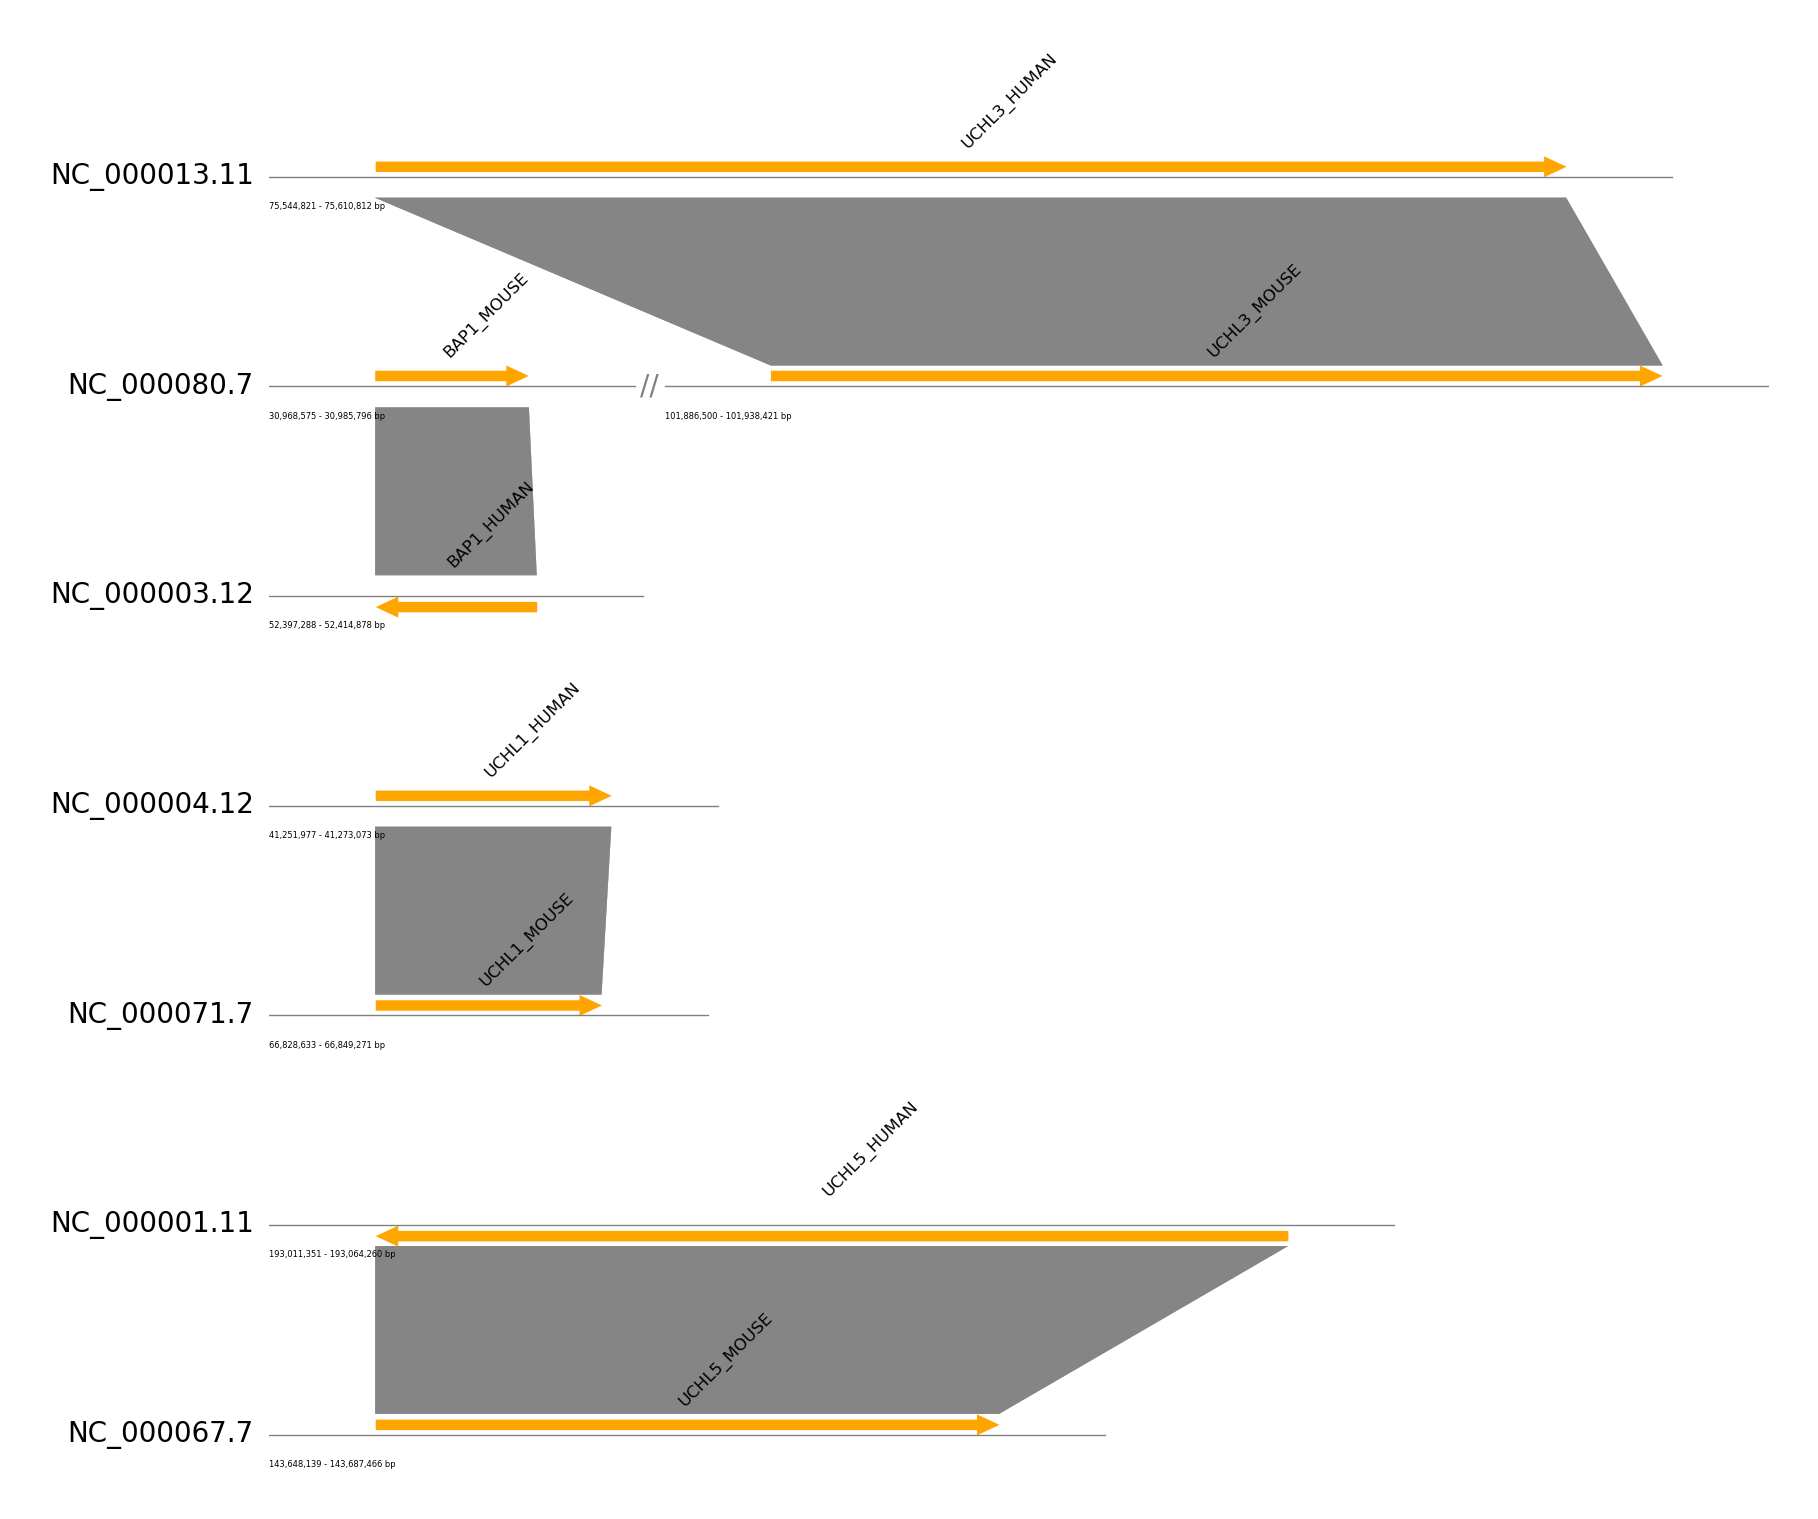
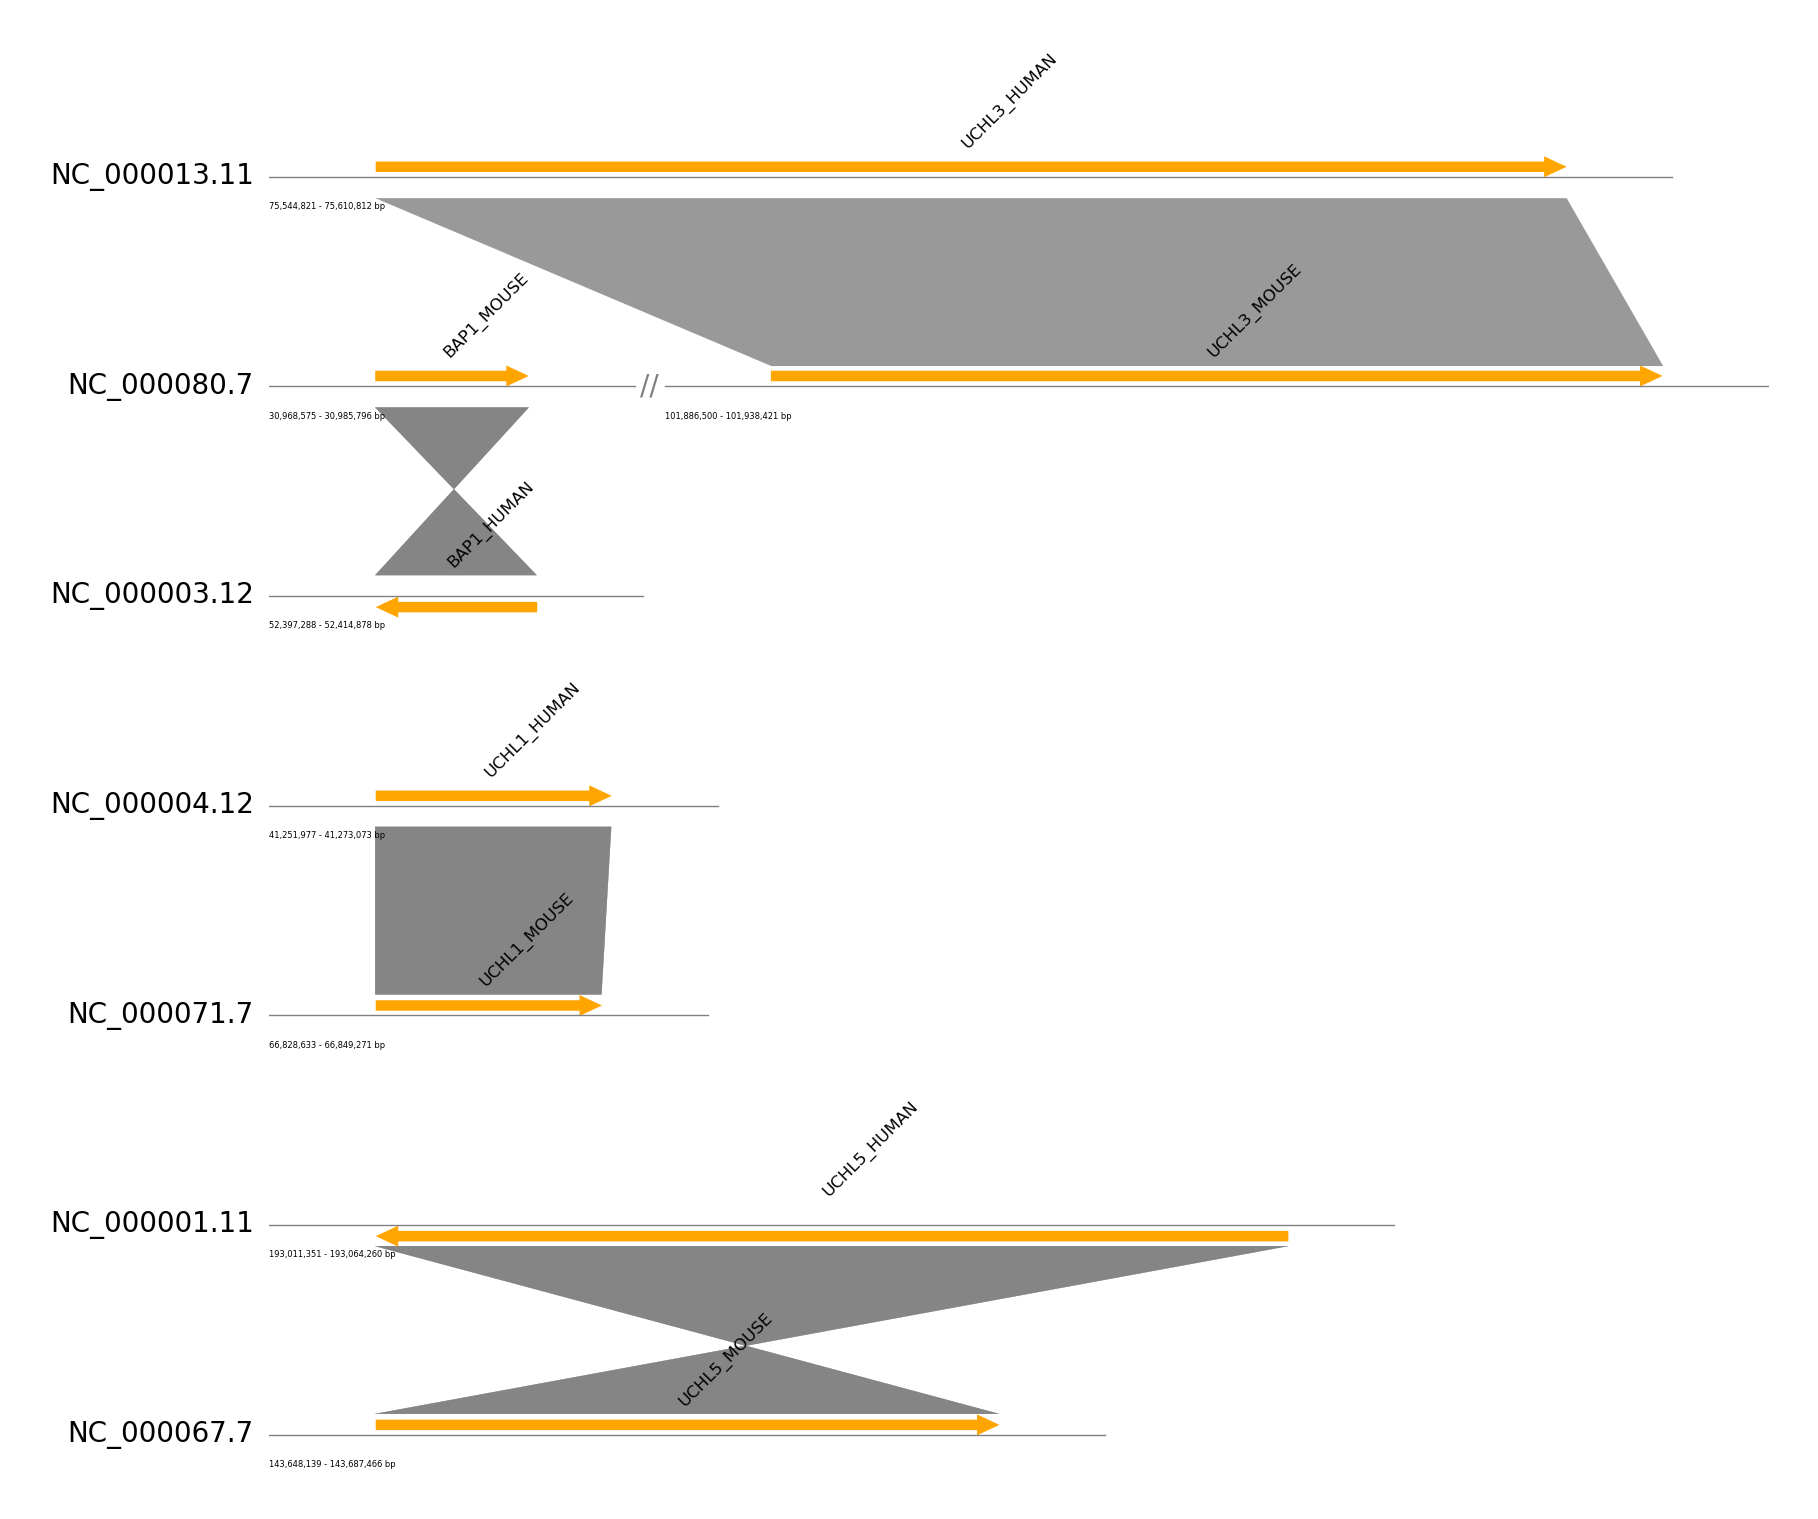
Fix linking of - to + strand genes

Changed region(s): [[0.1848, 0.8045, 0.7085, 0.9282], [0.1848, 0.2785, 0.308, 0.3713]]

diff --git a/src/create_synteny_plot.py b/src/create_synteny_plot.py
@@ -173,8 +173,6 @@ def create_plot(sequence_region_list: dict, wanted_sequence_regions):
 
             track = gv.add_feature_track(sequence_region, segments=attributes["segments"])
 
-            print(track.segments)
-
             # change seperator of the segments
             track.set_segment_sep(symbol="//")  # is shifted around like crazy...only when track_align_type = center!
 
@@ -229,6 +227,9 @@ def create_plot(sequence_region_list: dict, wanted_sequence_regions):
             for feature in attributes["features"]:
                 gene = feature["name"].split("_")[0]
 
+                # set up flag to leave loops when match is found
+                flag = False
+
                 # go through other sequence regions
                 for tmp_sequence_region in wanted_sequence_regions:
                     tmp_attributes = sequence_region_list[tmp_sequence_region]
@@ -244,16 +245,28 @@ def create_plot(sequence_region_list: dict, wanted_sequence_regions):
                         if tmp_gene == gene:
 
                             try:
-                                gv.add_link((sequence_region, "seg" + str(feature["index"] + 1),
-                                             feature["start"], feature["stop"]),
-                                            (tmp_sequence_region, "seg" + str(tmp_feature["index"] + 1),
-                                             tmp_feature["start"], tmp_feature["stop"]))
+                                # turn around 1 start and stop if direction of genes is different
+                                if feature["strand"] == "+" and tmp_feature["strand"] == "-" or feature["strand"] == "-" and tmp_feature["strand"] == "+":
+                                    gv.add_link((sequence_region, "seg" + str(feature["index"] + 1),
+                                                 feature["stop"], feature["start"]),
+                                                (tmp_sequence_region, "seg" + str(tmp_feature["index"] + 1),
+                                                 tmp_feature["start"], tmp_feature["stop"]))
+                                else:
+                                    gv.add_link((sequence_region, "seg" + str(feature["index"] + 1),
+                                                 feature["start"], feature["stop"]),
+                                                (tmp_sequence_region, "seg" + str(tmp_feature["index"] + 1),
+                                                 tmp_feature["start"], tmp_feature["stop"]))
                             except pygenomeviz.exception.LinkTrackNotFoundError:
                                 print(
                                     f"Link between {sequence_region} and {tmp_sequence_region} "
                                     f"for {gene} not possible, tracks not adjacent")
 
+                            # set flag for outer loops and break inner loop
+                            flag = True
                             break
+
+                if flag:
+                    break
 
     gv.savefig("test_plot.png")
 
